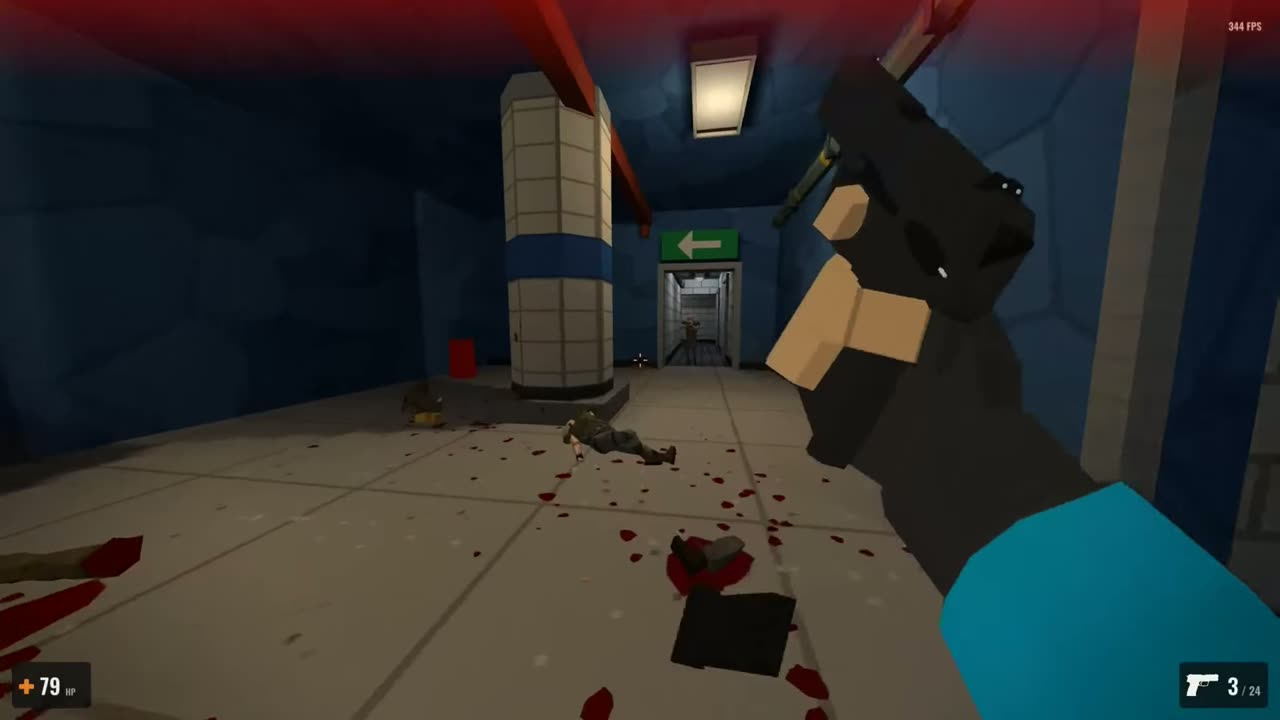
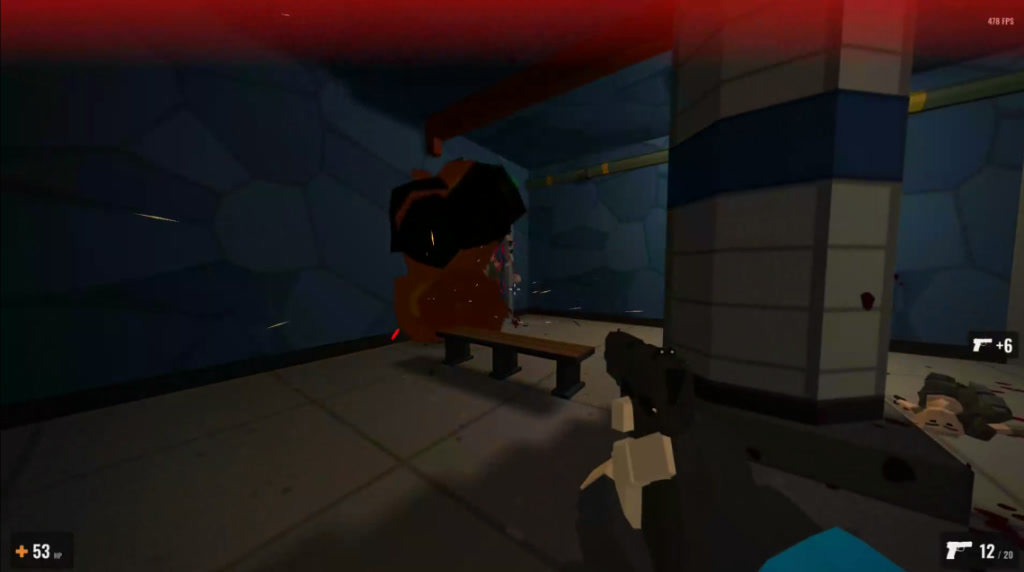
Update Commute screenshot to explosion action shot

diff --git a/README.md b/README.md
@@ -50,7 +50,7 @@
     <td width="50%" valign="top">
       <h4 align="center">🚇 Commute</h4>
       <a href="https://cedsson.itch.io/commute">
-        <img src="assets/commute-poster.jpg" alt="Commute Vertical Slice" width="100%" style="border-radius: 6px;" />
+        <img src="assets/commute.jpg" alt="Commute Vertical Slice" width="100%" style="border-radius: 6px;" />
       </a>
       <p>
         A 10-minute <b>vertical slice and engine tech demo</b> built to integrate and test all subsystems in a playable FPS: Forward+ rendering, capsule-vs-triangle collision, FMOD spatial audio occlusion, and AI navmeshes.
